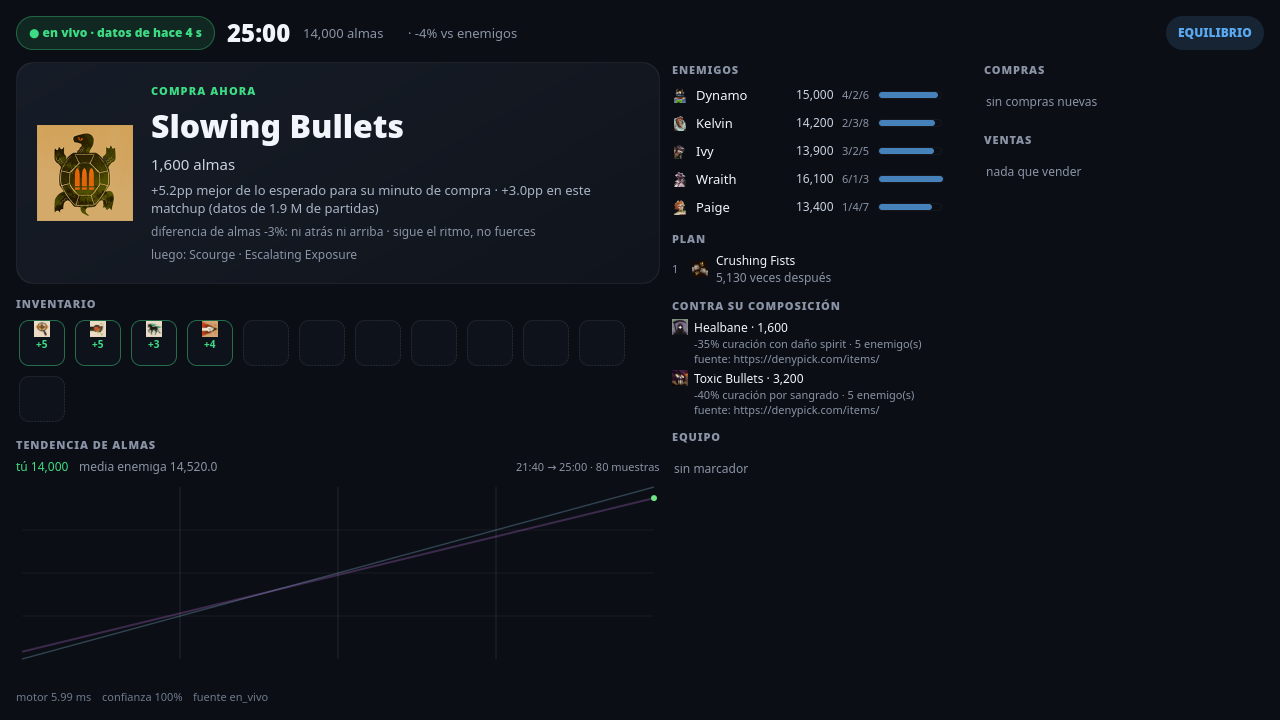
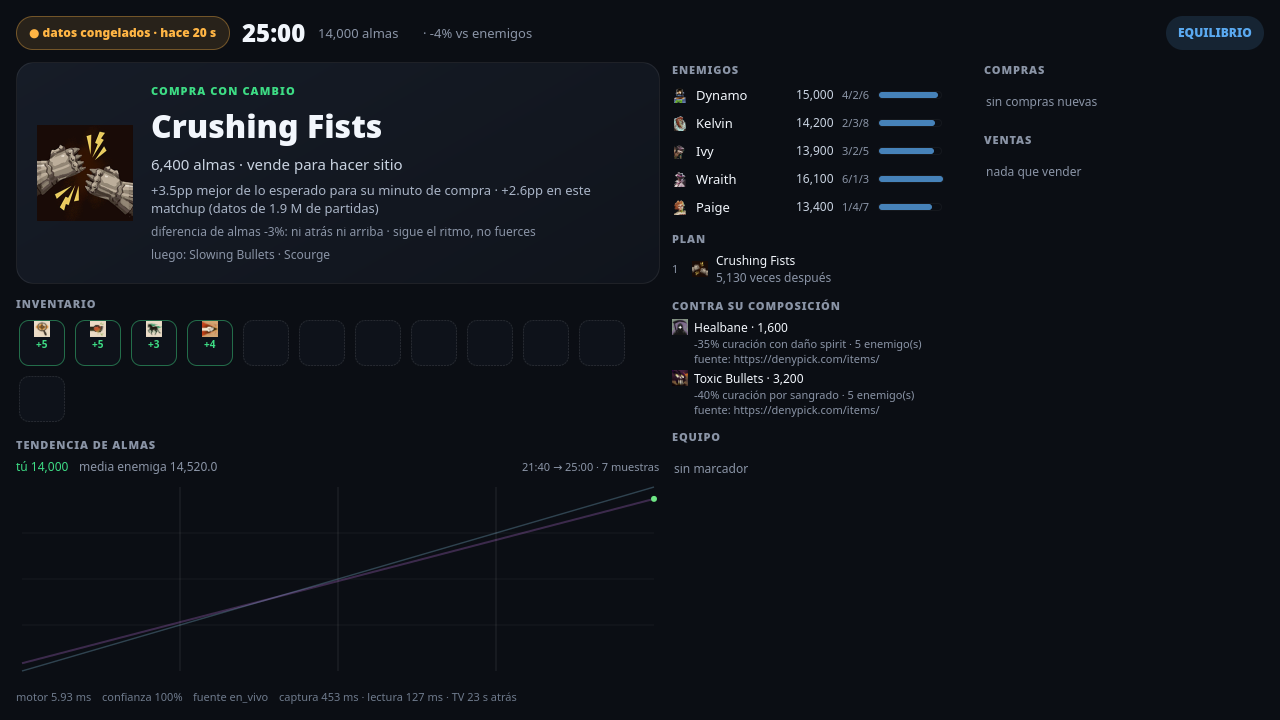
HUD en paralelo (269->127 ms), gancho para inyectar latencia en pruebas y pie que dice cuánto va el TV por detrás

diff --git a/coach/fuentes/hud_rapido.py b/coach/fuentes/hud_rapido.py
@@ -12,7 +12,9 @@ import os
 import re
 import subprocess
 import tempfile
+import threading
 import time
+from concurrent.futures import ThreadPoolExecutor
 
 from PIL import Image, ImageOps
 
@@ -90,28 +92,42 @@ def leer(cuadro, cajas=None, color_oro=None, tolerancia=40):
     salida = {"t": None, "oro": None, "caja_oro": "fija",
               "ms_reloj": None, "ms_oro": None}
 
-    t0 = time.perf_counter()
-    texto = _ocr(cuadro, _escalar(cajas["reloj"], tamano), 6, "0123456789:", "7")
-    m = re.search(r"(\d{1,2}):(\d{2})", texto)
-    if m:
-        salida["t"] = int(m.group(1)) * 60 + int(m.group(2))
-    salida["ms_reloj"] = round((time.perf_counter() - t0) * 1000, 1)
+    # Reloj y oro son dos recortes independientes: se leen en paralelo. Tesseract tarda
+    # ~90 ms solo en arrancar, así que en serie el ciclo era 269 ms y en paralelo baja a
+    # lo que tarda el más lento.
+    def _reloj():
+        t0 = time.perf_counter()
+        texto = _ocr(cuadro, _escalar(cajas["reloj"], tamano), 6, "0123456789:", "7")
+        m = re.search(r"(\d{1,2}):(\d{2})", texto)
+        return (int(m.group(1)) * 60 + int(m.group(2)) if m else None,
+                round((time.perf_counter() - t0) * 1000, 1))
 
-    t0 = time.perf_counter()
-    caja = detectar_bloque_oro(cuadro, _escalar(cajas["banda_oro"], tamano),
-                               color_oro, tolerancia)
-    if caja:
-        salida["caja_oro"] = "color"
-    else:
-        caja = _escalar(cajas["oro"], tamano)
-    texto = _ocr(cuadro, caja, 4, "0123456789,", "7")
-    numeros = [n for n in re.findall(r"\d[\d,]*", texto) if len(n.replace(",", "")) >= 1]
-    if numeros:
-        try:
-            salida["oro"] = int(numeros[-1].replace(",", ""))
-        except ValueError:
-            salida["oro"] = None
-    salida["ms_oro"] = round((time.perf_counter() - t0) * 1000, 1)
+    def _oro():
+        t0 = time.perf_counter()
+        caja = detectar_bloque_oro(cuadro, _escalar(cajas["banda_oro"], tamano),
+                                   color_oro, tolerancia)
+        origen = "color" if caja else "fija"
+        if not caja:
+            caja = _escalar(cajas["oro"], tamano)
+        texto = _ocr(cuadro, caja, 4, "0123456789,", "7")
+        numeros = [n for n in re.findall(r"\d[\d,]*", texto)
+                   if len(n.replace(",", "")) >= 1]
+        valor = None
+        if numeros:
+            try:
+                valor = int(numeros[-1].replace(",", ""))
+            except ValueError:
+                valor = None
+        return valor, origen, round((time.perf_counter() - t0) * 1000, 1)
+
+    with ThreadPoolExecutor(max_workers=2) as pool:
+        f_reloj = pool.submit(_reloj)
+        f_oro = pool.submit(_oro)
+        t, ms_reloj = f_reloj.result()
+        oro, origen, ms_oro = f_oro.result()
+
+    salida.update({"t": t, "oro": oro, "caja_oro": origen,
+                   "ms_reloj": ms_reloj, "ms_oro": ms_oro})
     return salida
 
 

diff --git a/coach/servidor.py b/coach/servidor.py
@@ -147,7 +147,12 @@ class Manejador(BaseHTTPRequestHandler):
             try:
                 estado = json.loads(cuerpo or b"{}")
                 EST.manual_ts = time.time()
-                EST.publicar(analizador(estado))
+                salida = analizador(estado)
+                # Gancho de depuración: permite inyectar el bloque `latencia` para
+                # revisar cómo se ve el pie sin tener una partida real corriendo.
+                if isinstance(estado, dict) and isinstance(estado.get("latencia"), dict):
+                    salida["latencia"] = estado["latencia"]
+                EST.publicar(salida)
                 self._enviar(200, {"ok": True})
             except Exception as e:
                 self._enviar(400, {"error": str(e)})

diff --git a/coach/ui/componentes/pie.py b/coach/ui/componentes/pie.py
@@ -48,7 +48,8 @@ class StatusBar(Gtk.Box):
         if la.get("lectura_ms"):
             piezas.append(f"lectura {la['lectura_ms']:.0f} ms")
         if la.get("broadcast_s") is not None:
-            piezas.append(f"TV {la['broadcast_s']:+.1f} s")
+            # El signo confundía: se dice cuánto va el TV por detrás, en valor absoluto.
+            piezas.append(f"TV {abs(la['broadcast_s']):.0f} s atrás")
         self.lbl_latencia.set_label(" · ".join(piezas))
         if d.get("lectura_dudosa"):
             self.lbl_aviso.set_label("lectura dudosa: mantengo la última buena")

diff --git a/README.md b/README.md
@@ -71,7 +71,7 @@ Qué viene: [`ROADMAP.md`](ROADMAP.md).
 | Qué | Número | Cómo |
 |---|---|---|
 | Captura de pantalla | 415–514 ms por cuadro (4480×1440) | `herramientas/medir_latencia.py` |
-| Lectura del HUD | 147 ms reloj, 122 ms oro | el mismo comando |
+| Lectura del HUD | 127 ms reloj y oro en paralelo (7.9 lecturas/s) | el mismo comando |
 | Latencia del broadcast | 20–25 s (del TV de Valve, no nuestra) | reloj del HUD contra reloj del broadcast |
 | Motor de decisión | 4.5 ms medio, 8.6 ms máximo | 2,156 estados de 200 partidas reales |
 | Panel | 127 MB de RAM, 0.2 % de CPU | `ps` y `/proc/<pid>/stat` |
